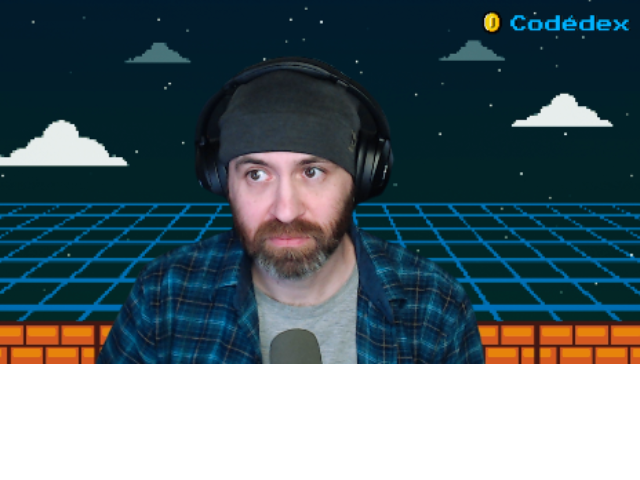
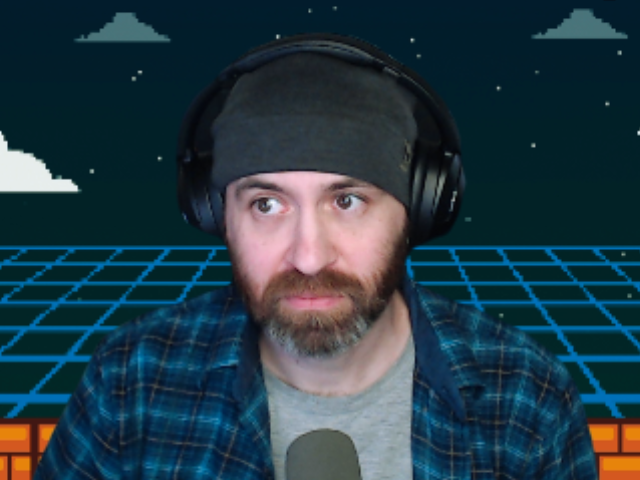
fix moire some more and play with layout

diff --git a/src/components/HalftoneBackground.tsx b/src/components/HalftoneBackground.tsx
@@ -5,10 +5,11 @@ import fragmentShader from '../shaders/halftone.frag'
 interface HalftoneBackgroundProps {
   src: string
   frequency?: number
+  saturation?: number
   className?: string
 }
 
-function HalftoneBackground({ src, frequency = 30.0, className }: HalftoneBackgroundProps) {
+function HalftoneBackground({ src, frequency = 30.0, saturation = 1.0, className }: HalftoneBackgroundProps) {
   const canvasRef = useRef<HTMLCanvasElement>(null)
   const glRef = useRef<WebGLRenderingContext | null>(null)
   const programRef = useRef<WebGLProgram | null>(null)
@@ -94,6 +95,7 @@ function HalftoneBackground({ src, frequency = 30.0, className }: HalftoneBackgr
       const iResolutionLoc = gl.getUniformLocation(program, 'iResolution')
       const frequencyLoc = gl.getUniformLocation(program, 'frequency')
       const iImageSizeLoc = gl.getUniformLocation(program, 'iImageSize')
+      const saturationLoc = gl.getUniformLocation(program, 'saturation')
       
       // Use display resolution (CSS size) for cover calculations, not internal canvas resolution
       // Use rounded integers to avoid sub-pixel issues
@@ -102,6 +104,7 @@ function HalftoneBackground({ src, frequency = 30.0, className }: HalftoneBackgr
       // Scaling frequency by resolution multiplier causes severe moiré
       gl.uniform1f(frequencyLoc, frequency)
       gl.uniform2f(iImageSizeLoc, imageAspectRef.current[0], imageAspectRef.current[1])
+      gl.uniform1f(saturationLoc, saturation)
 
       // Bind texture
       gl.activeTexture(gl.TEXTURE0)
@@ -145,8 +148,10 @@ function HalftoneBackground({ src, frequency = 30.0, className }: HalftoneBackgr
       
       lastSizeRef.current = { width: displayWidth, height: displayHeight }
       
-      // Use 3x multiplier for print-quality halftone
-      const resolutionMultiplier = 3
+      // Use devicePixelRatio * 2 for clean scaling that reduces moiré
+      // Power-of-2 multipliers align better with browser downsampling
+      const dpr = window.devicePixelRatio || 1
+      const resolutionMultiplier = Math.max(2, Math.round(dpr * 2)) // 2x, 4x, or 6x typically
       resolutionMultiplierRef.current = resolutionMultiplier
       
       // Set canvas internal resolution higher for finer detail
@@ -189,7 +194,7 @@ function HalftoneBackground({ src, frequency = 30.0, className }: HalftoneBackgr
       resizeObserver.disconnect()
       window.removeEventListener('resize', windowResizeHandler)
     }
-  }, [src, frequency])
+  }, [src, frequency, saturation])
 
   return (
     <canvas

diff --git a/src/components/Panel.tsx b/src/components/Panel.tsx
@@ -16,14 +16,22 @@ const PanelContainer = styled.div<{ $width?: 'full' | 'half' }>`
   min-height: 300px;
   overflow: hidden;
   flex: ${props => props.$width === 'half' ? '1 1 calc(50% - 5px)' : '1 1 100%'};
+  
+  /* Force single column on mobile */
+  @media (max-width: 768px) {
+    flex: 1 1 100%;
+    min-width: 100%;
+  }
 `;
 
 const PanelContent = styled.div`
   position: relative;
   z-index: 1;
   pointer-events: none;
-  padding-top: 40px;
-  padding-bottom: 40px;
+  display: flex;
+  flex-direction: column;
+  justify-content: flex-end;
+  min-height: 100%;
 `;
 
 const BackgroundLayer = styled.div`
@@ -38,11 +46,12 @@ const BackgroundLayer = styled.div`
 interface PanelProps {
   background?: string
   frequency?: number
+  saturation?: number
   width?: 'full' | 'half'
   children: ReactNode
 }
 
-function Panel({ background, frequency = 30, width = 'full', children }: PanelProps) {
+function Panel({ background, frequency = 30, saturation, width = 'full', children }: PanelProps) {
   // Separate captions from other content
   const captions: ReactNode[] = []
   const content: ReactNode[] = []
@@ -59,7 +68,7 @@ function Panel({ background, frequency = 30, width = 'full', children }: PanelPr
     <PanelContainer $width={width}>
       {background && (
         <BackgroundLayer>
-          <HalftoneBackground src={background} frequency={frequency} />
+          <HalftoneBackground src={background} frequency={frequency} saturation={saturation} />
         </BackgroundLayer>
       )}
       {captions}

diff --git a/src/App.tsx b/src/App.tsx
@@ -32,17 +32,16 @@ const TitleText = styled.div<{ place: 'left' | 'right' }>`
 function App() {
   return (
     <PageContainer>
-      <Panel background="/bgcave.jpg" frequency={90} width="full">
+      <Panel background="/bgfield.png" frequency={90} width="full">
         <TitleText place="left">Eric Wynn Romere</TitleText>
         <TitleImage src="/intelagensetitle.png" alt="logo" />
         <TitleText place="right">Software Engineer</TitleText>
       </Panel>
-      <Panel background="/whoknows.png" frequency={90} width="half">
-        <Caption type="footer">hero I guess?</Caption>
+      <Panel background="/zoomflip.png" frequency={90} saturation={2} width="half">
+        <Caption type="footer">Our hero I guess?</Caption>
       </Panel>
-      <Panel background="/background.jpg" frequency={90} width="half">
-        <p>In the muggy shadows of the Houston tech scene our hero writes code among the smell of concrete and burning trash.</p>
-        <Caption type="header">PROPERTY JOURNAL</Caption>
+      <Panel background="/background.jpg" frequency={90} saturation={1} width="half">
+        <Caption type="header">In the muggy shadows of the Houston tech scene our hero writes code among the smell of concrete and burning trash.</Caption>
         <Caption type="footer">INTELAGENSE</Caption>
       </Panel>
     </PageContainer>
